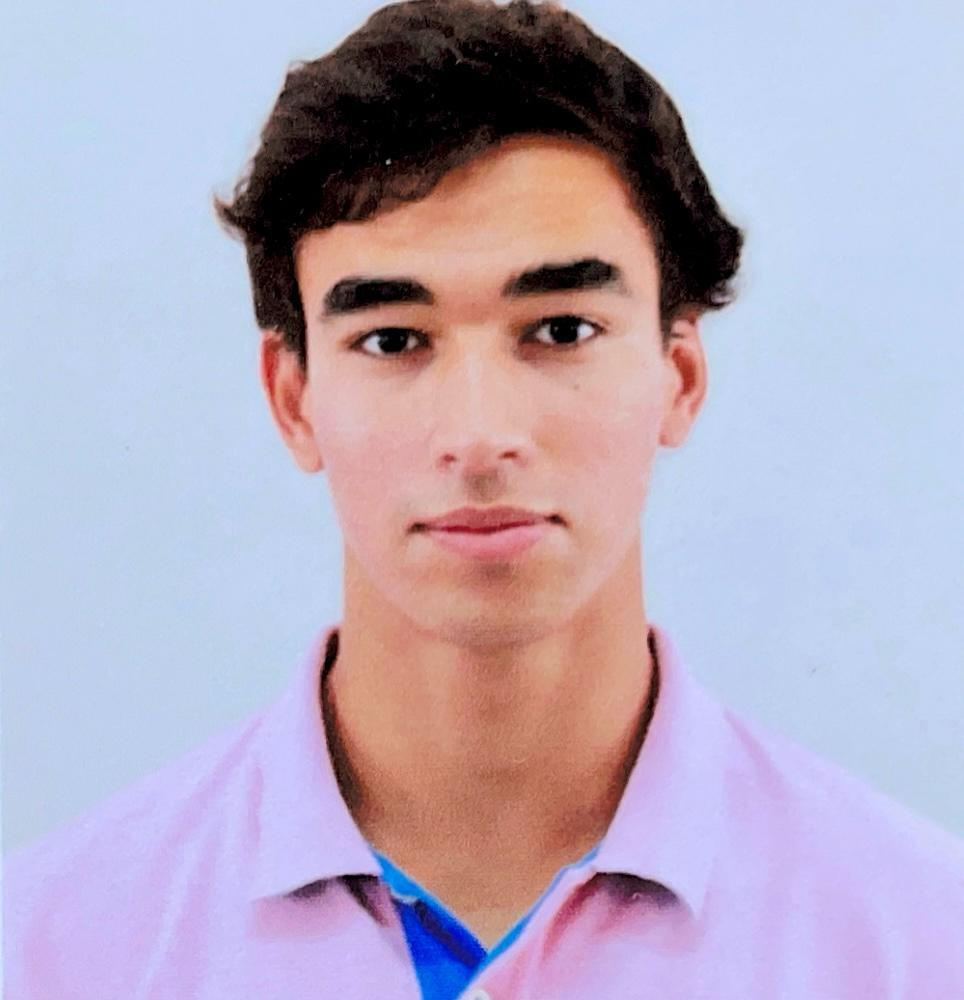
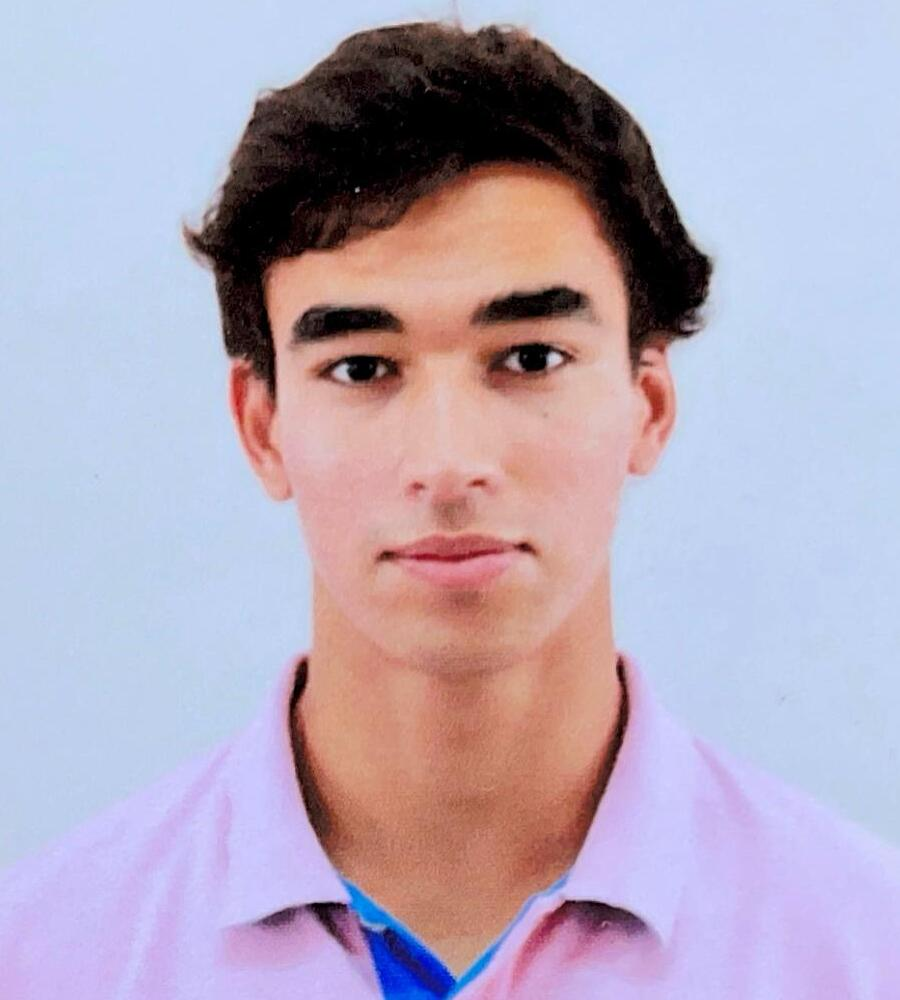
Update
Pequena alteração

diff --git a/Website/about.html b/Website/about.html
@@ -150,7 +150,7 @@
             <!-- Diminui ligeiramente o tamanho das caixas e aumenta o espaçamento -->
             <div class="caixa-front" onclick="expandirCaixa('minhaCaixa')" id="minhaCaixa" 
             data-texto-completo="Filipe's expertise lies in hardware and software intricacies within our project. He leads device design, assembly, and sensor testing, ensuring optimal performance. His role extends to configuring microcontrollers, establishing wireless networks, and managing crop databases. Filipe's technical prowess and attention to detail are indispensable, driving efficiency and innovation in our project's hardware and software domains.">
-              <img src="images/icon.png" alt="Imagem 1" width="100px" style="margin-top: 20px;">
+              <img src="images/Filipe.jpeg" alt="Imagem 1" width="100px" style="margin-top: 20px;">
               <p style="font-size: 14px; margin-top: 17px;"><b>Filipe Piçarra</b></p>
               <p style="margin-top: -3px;">
                 <a href="https://www.linkedin.com/seu_perfil" target="_blank" style="color: #455a1b; margin-left: 5px; margin-right: 5px; text-decoration: none; transition: color 0.3s ease;" onmouseover="this.style.color='#23242a';" onmouseout="this.style.color='#455a1b';"><i class="fab fa-linkedin"></i></a>
@@ -166,7 +166,7 @@
             <!-- Diminui ligeiramente o tamanho das caixas e aumenta o espaçamento -->
             <div class="caixa-front" onclick="expandirCaixa('minhaCaixa1')" id="minhaCaixa1"
             data-texto-completo="Francisco is the communication focal point in our project, managing reports, coordinating with external partners, and overseeing field tests. He also lends his creative touch to design websites, videos, and posters. His role ensures seamless communication and adds visual appeal to our project's endeavors, making him an indispensable asset to our team.">
-              <img src="images/WhatsApp Image 2024-02-12 at 15.24.20(1).jpeg" alt="Imagem 2" width="100px" style="margin-top: 20px;">   <!-- Dimensões 1000 alt e 900 larg -->
+              <img src="images/Francisco.jpeg" alt="Imagem 2" width="100px" style="margin-top: 20px;">   <!-- Dimensões 1000 alt e 900 larg -->
               <p style="font-size: 14px; margin-top: 17px;"><b>Francisco Apolinário</b></p>
               <p style="margin-top: -3px;">
                 <a href="https://www.linkedin.com/in/francisco-apolinário" target="_blank" style="color: #455a1b; margin-left: 5px; margin-right: 5px; text-decoration: none; transition: color 0.3s ease;" onmouseover="this.style.color='#23242a';" onmouseout="this.style.color='#455a1b';"><i class="fab fa-linkedin"></i></a>
